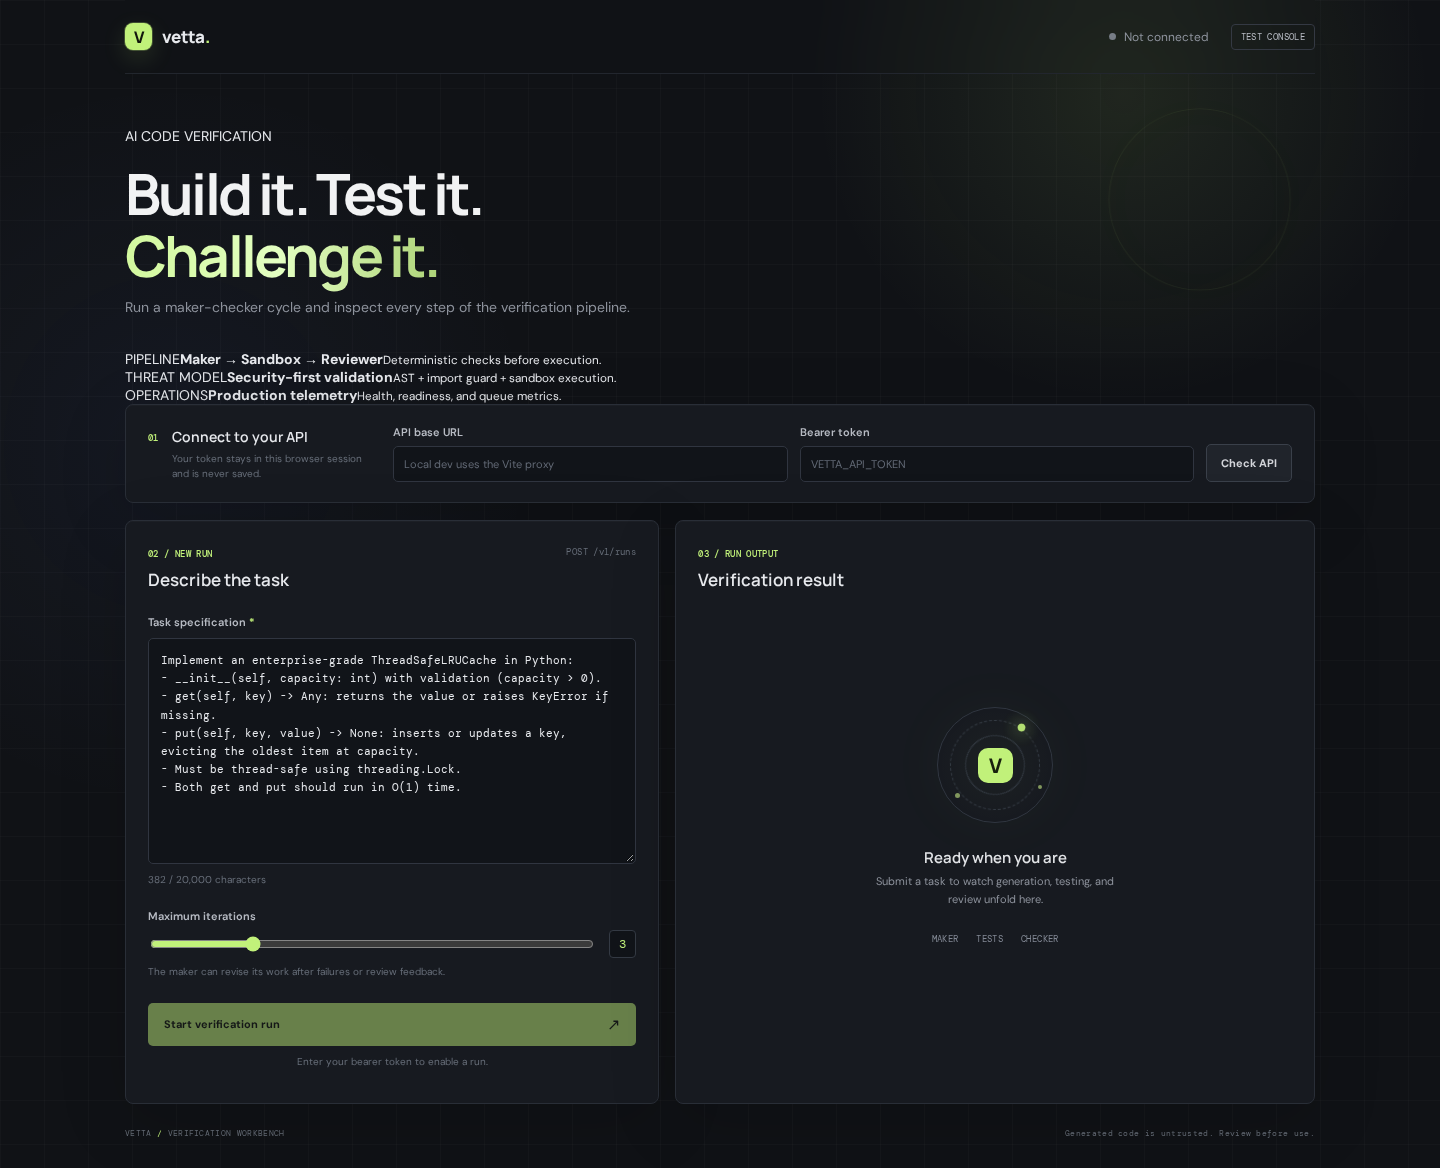
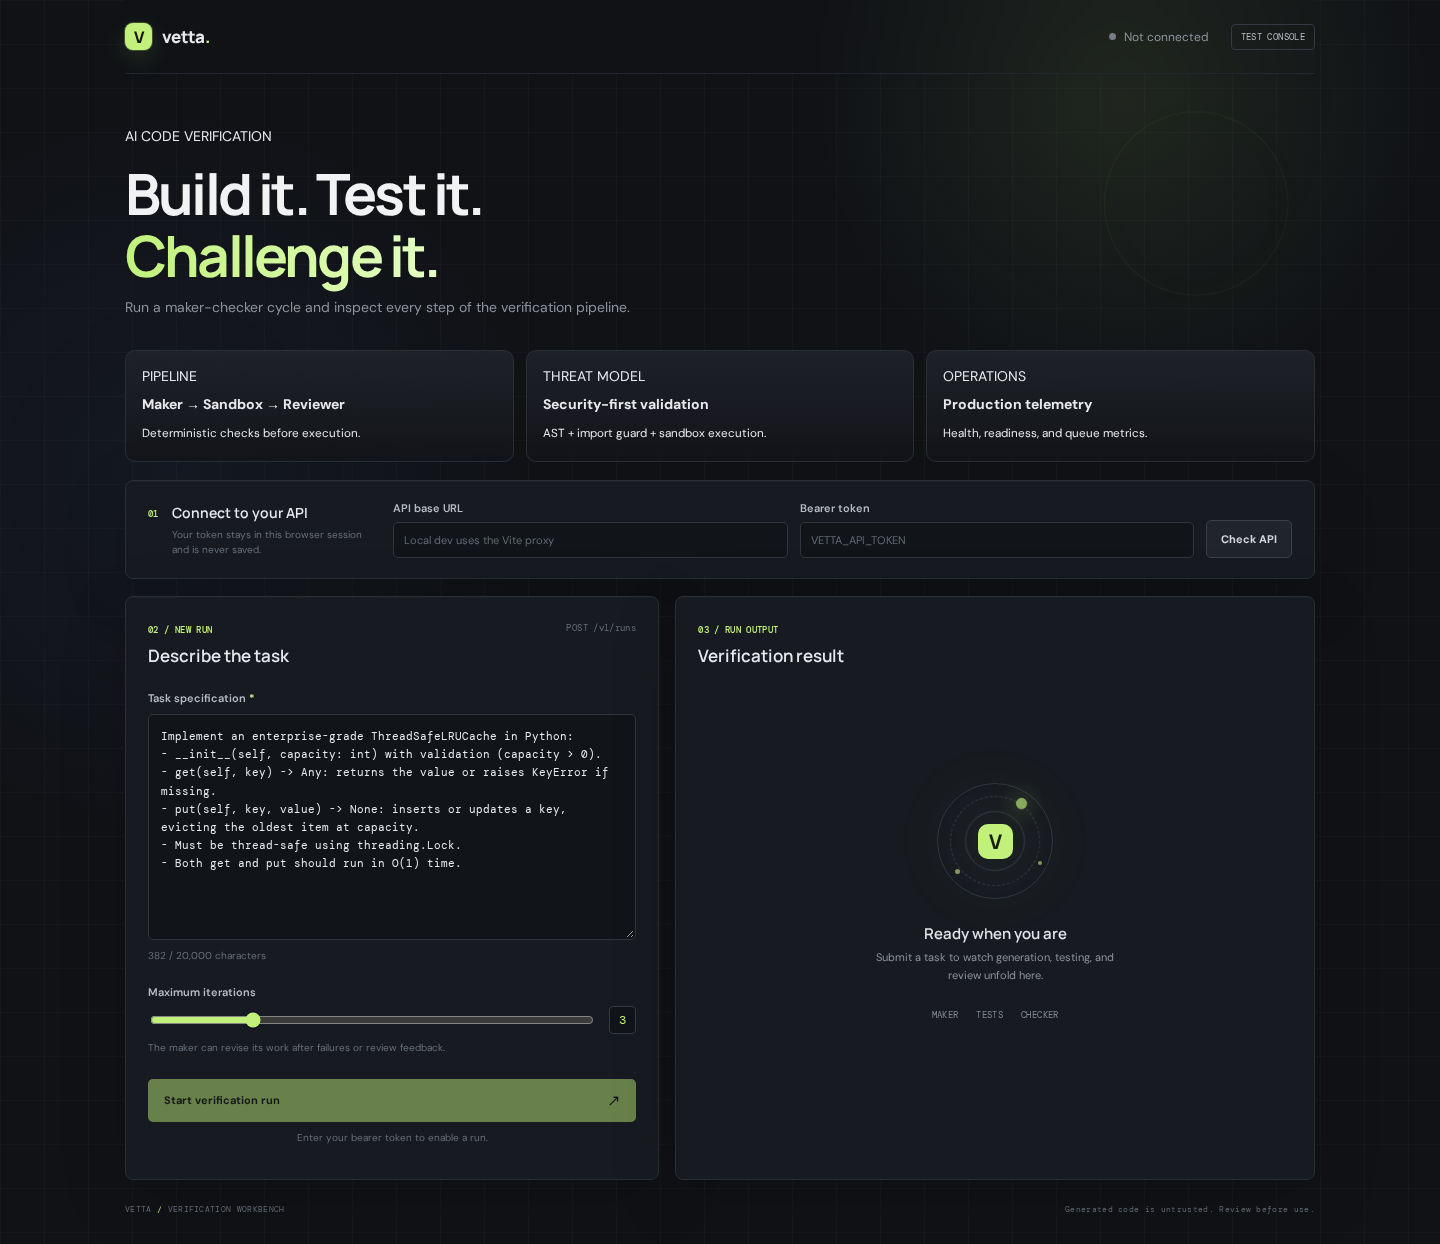
bug fixed in frontend

diff --git a/frontend/src/App.css b/frontend/src/App.css
@@ -232,7 +232,7 @@
 .button-arrow { margin-left: auto; font-size: 16px; }
 .form-note { margin: 9px 0 0; color: var(--faint); text-align: center; font-size: 10px; }
 
-.result-heading { min-height: 43px; }
+.result-heading { min-height: 43px; gap: 14px; }
 .status-badge {
   display: inline-flex;
   align-items: center;
@@ -364,7 +364,7 @@
 
 .job-meta { display: flex; align-items: center; gap: 10px; padding: 10px 0 13px; border-top: 1px solid var(--line-soft); }
 .job-meta > span { color: var(--faint); font-size: 9px; }
-.job-meta code { overflow: hidden; color: #aeb3bd; font: 10px var(--mono); text-overflow: ellipsis; }
+.job-meta code { overflow: hidden; color: #aeb3bd; font: 10px var(--mono); text-overflow: ellipsis; max-width: 100%; }
 
 .progress-state { display: flex; min-height: 125px; align-items: center; gap: 14px; }
 .progress-state strong { color: #e3e5e9; font: 600 13px var(--heading); }
@@ -456,7 +456,7 @@
 
 .artifact-list { display: flex; flex-direction: column; gap: 6px; margin-top: 12px; }
 .artifact { border: 1px solid var(--line-soft); border-radius: 5px; background: #14171c; }
-.artifact summary { display: flex; align-items: center; justify-content: space-between; padding: 10px; color: #c4c8ce; cursor: pointer; font-size: 10px; list-style: none; transition: background 180ms ease, color 180ms ease; }
+.artifact summary { display: flex; align-items: center; justify-content: space-between; padding: 10px; color: #c4c8ce; cursor: pointer; font-size: 10px; list-style: none; transition: background 180ms ease, color 180ms ease; gap: 10px; }
 .artifact summary::-webkit-details-marker { display: none; }
 .artifact summary::after { margin-left: 8px; color: #89909b; content: '+'; font: 14px var(--mono); }
 .artifact[open] summary::after { content: '−'; }
@@ -472,12 +472,33 @@
 .footer { display: flex; justify-content: space-between; gap: 10px; padding: 24px 0 30px; color: #666d77; font-size: 8px; }
 .footer-dot { color: var(--lime); }
 
-.result-actions { display: flex; align-items: center; justify-content: flex-end; gap: 8px; }
+.result-actions { display: flex; align-items: center; justify-content: flex-end; gap: 8px; min-width: 0; flex-wrap: wrap; }
 .compact-button { min-height: 31px; padding: 0 9px; }
 .copy-feedback { color: var(--lime); font: 9px var(--mono); }
-.artifact-actions { display: inline-flex; align-items: center; gap: 7px; }
+.artifact-actions { display: inline-flex; align-items: center; gap: 7px; flex: 0 0 auto; }
 .artifact-actions button { border: 0; padding: 3px 5px; color: #bfc5cd; background: transparent; cursor: pointer; font-size: 9px; }
 .artifact-actions button:hover { color: var(--lime); }
+
+.overview-grid {
+  display: grid;
+  grid-template-columns: repeat(3, minmax(0, 1fr));
+  gap: 12px;
+  margin-bottom: 18px;
+}
+.overview-card {
+  display: flex;
+  min-height: 112px;
+  flex-direction: column;
+  gap: 10px;
+  align-items: flex-start;
+  justify-content: flex-start;
+  padding: 16px;
+  border: 1px solid var(--line);
+  border-radius: 10px;
+  background: linear-gradient(180deg, rgba(31, 34, 40, 0.92), rgba(19, 21, 26, 0.92));
+}
+.overview-card strong { line-height: 1.35; }
+.overview-card small { line-height: 1.55; }
 
 @keyframes spin { to { transform: rotate(360deg); } }
 @keyframes pulse { 50% { opacity: 0.45; } }
@@ -497,15 +518,17 @@
   .workspace { grid-template-columns: 1fr; }
   .request-card, .result-card { min-height: unset; }
   .empty-state { min-height: 350px; }
+  .overview-grid { grid-template-columns: 1fr; }
+  .overview-card { min-height: 94px; }
 }
 
 @media (max-width: 520px) {
   .app-shell { width: calc(100% - 28px); }
-  .topbar { height: 62px; }
+  .topbar { height: 62px; position: sticky; z-index: 20; top: 0; background: rgba(16, 18, 22, 0.88); }
   .topbar-right { gap: 10px; }
   .environment-tag { display: none; }
   .hero { padding: 40px 0 26px; }
-  .hero h1 { letter-spacing: -1.7px; }
+  .hero h1 { letter-spacing: -1.7px; max-width: 340px; }
   .hero > p { max-width: 330px; font-size: 12px; line-height: 1.55; }
   .connection-panel, .request-card, .result-card { padding: 16px; }
   .connection-panel,
@@ -514,7 +537,20 @@
   .connection-fields { grid-template-columns: 1fr; }
   .connect-button { grid-column: auto; }
   .request-method { display: none; }
+  .connection-copy { align-items: center; }
+  .connection-copy p { max-width: 260px; }
+  .result-heading { align-items: flex-start; }
+  .result-actions { max-width: 58%; }
+  .status-badge { max-width: 100%; }
+  .metric-grid { grid-template-columns: 1fr; }
+  .insight-grid { grid-template-columns: 1fr; }
+  .artifact summary { align-items: flex-start; flex-direction: column; }
+  .artifact-actions { width: 100%; justify-content: flex-start; }
+  .artifact-type { margin-left: auto; }
   .footer { flex-direction: column; }
+  .overview-grid { gap: 8px; }
+  .overview-card { min-height: 88px; padding: 14px; }
+  .overview-card strong { font-size: 16px; }
 }
 
 @media (prefers-reduced-motion: reduce) {

diff --git a/frontend/src/App.tsx b/frontend/src/App.tsx
@@ -331,12 +331,13 @@ function App() {
             <button
               className="button button-primary submit-button"
               type="submit"
-              disabled={isSubmitting || !token.trim() || !spec.trim()}
+              disabled={isSubmitting || connection !== 'online' || !token.trim() || !spec.trim()}
             >
               <span>{isSubmitting ? 'Submitting run…' : 'Start verification run'}</span>
               {!isSubmitting && <span className="button-arrow" aria-hidden="true">↗</span>}
             </button>
             {!token.trim() && <p className="form-note">Enter your bearer token to enable a run.</p>}
+            {token.trim() && connection !== 'online' && <p className="form-note">Check the API connection before starting a run.</p>}
           </form>
         </section>
 
